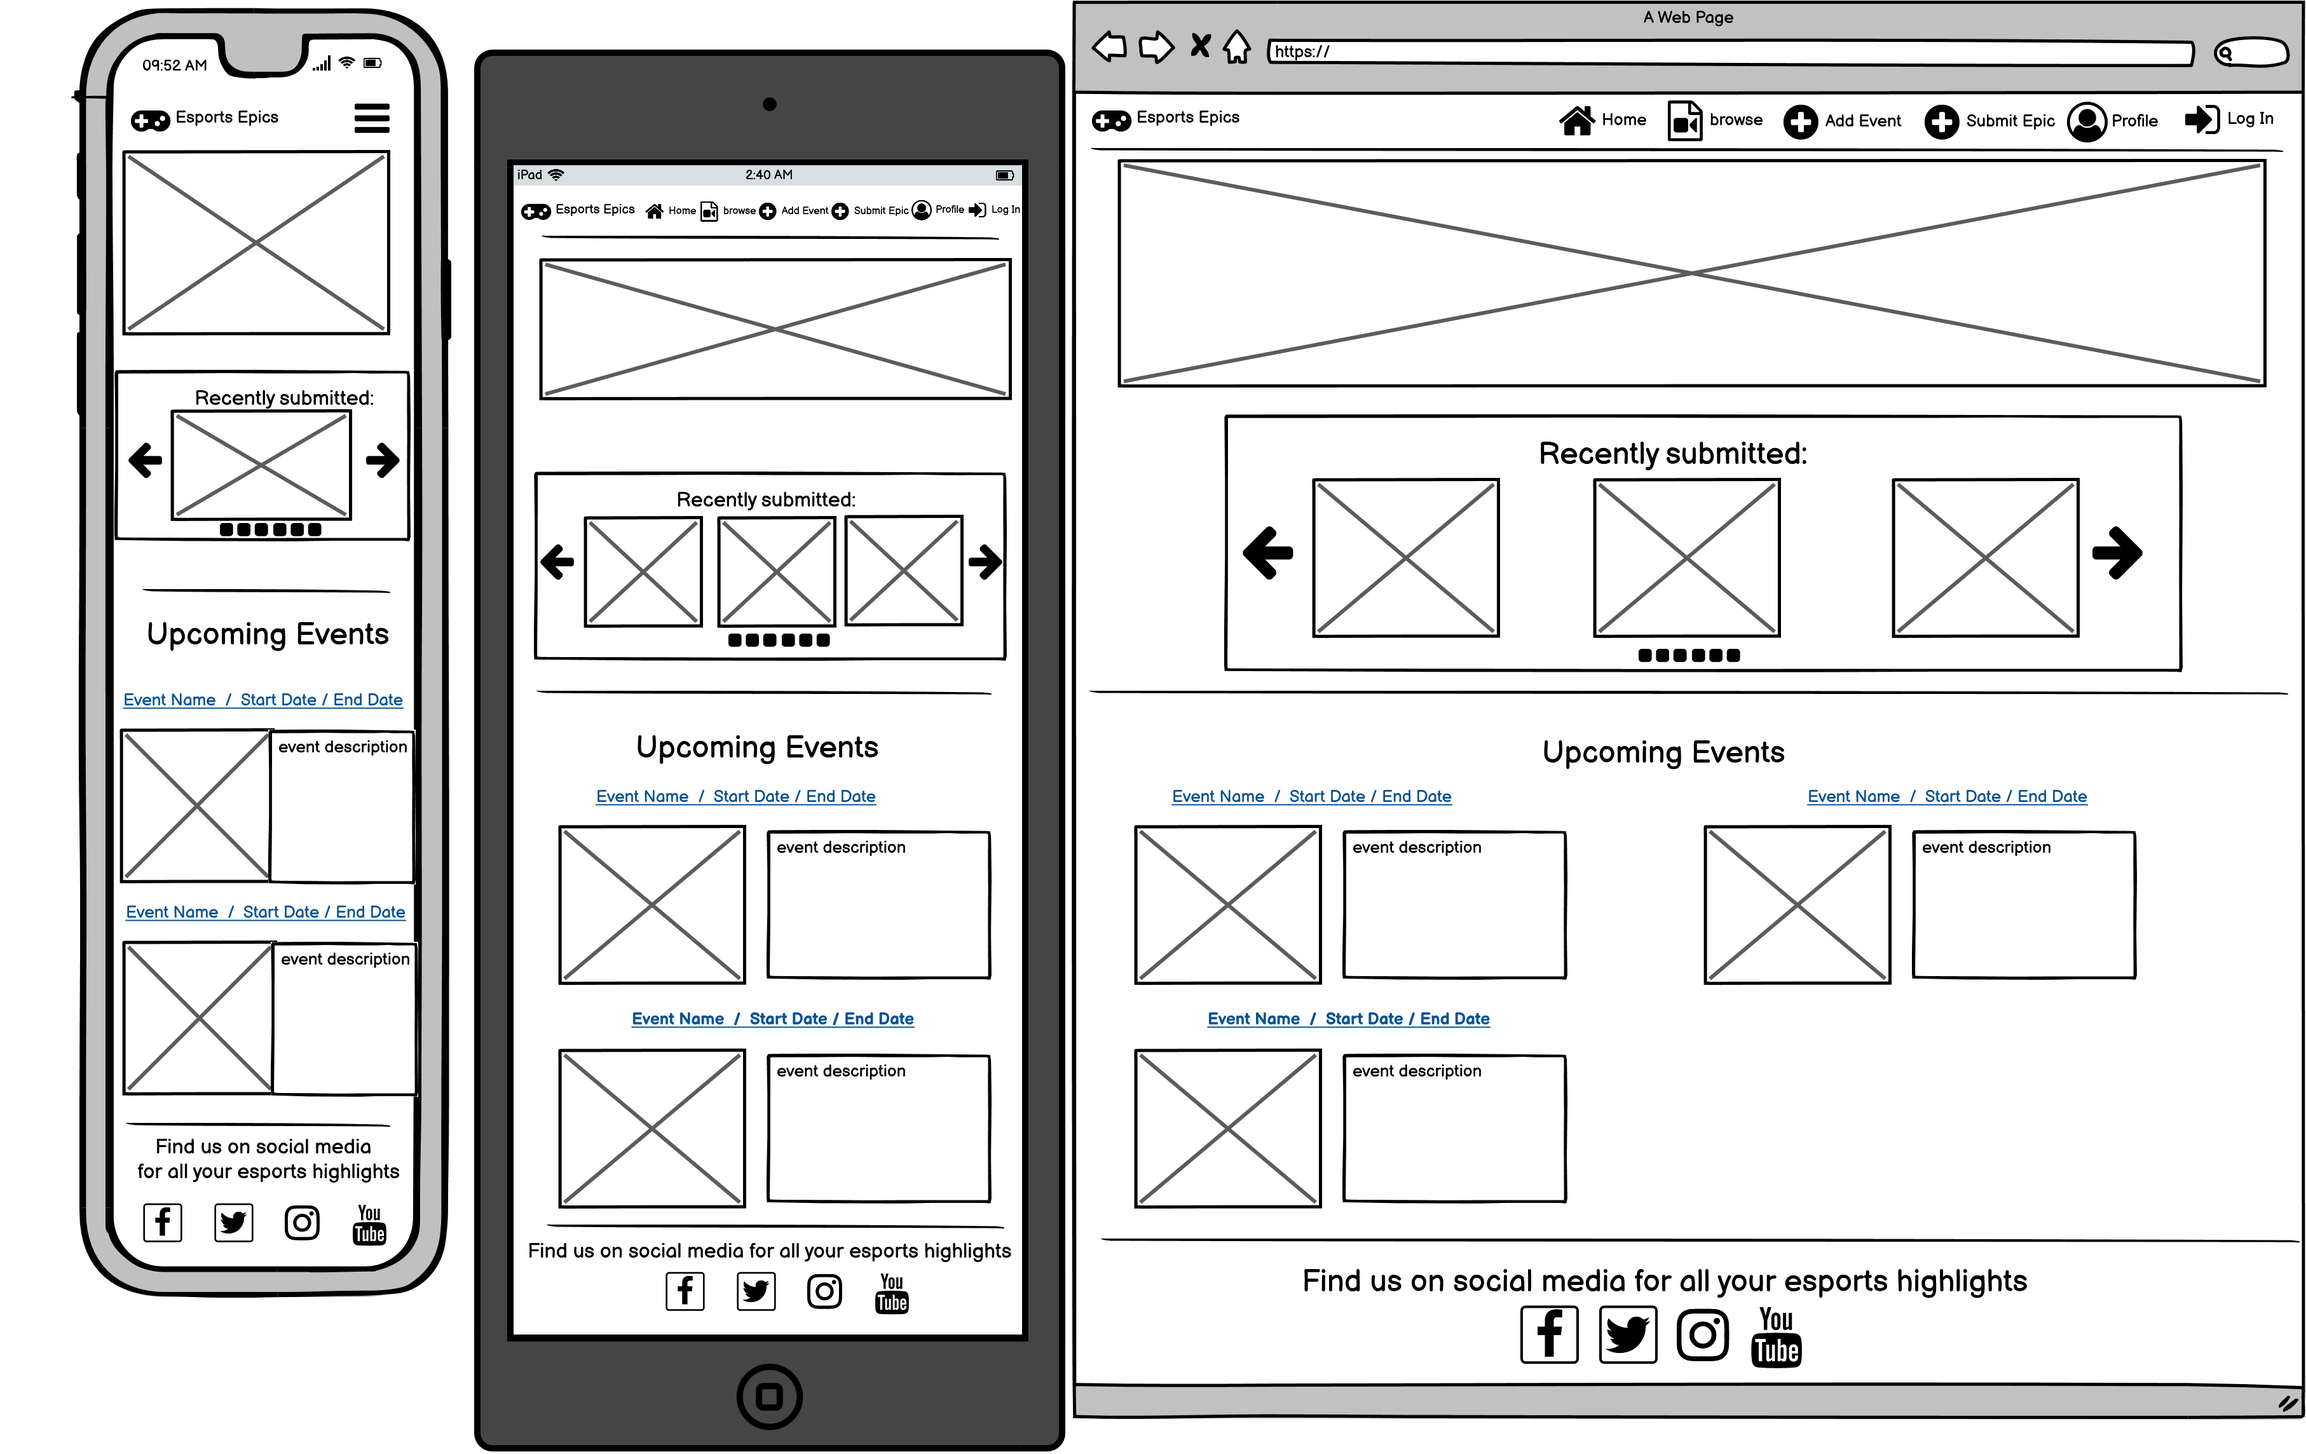
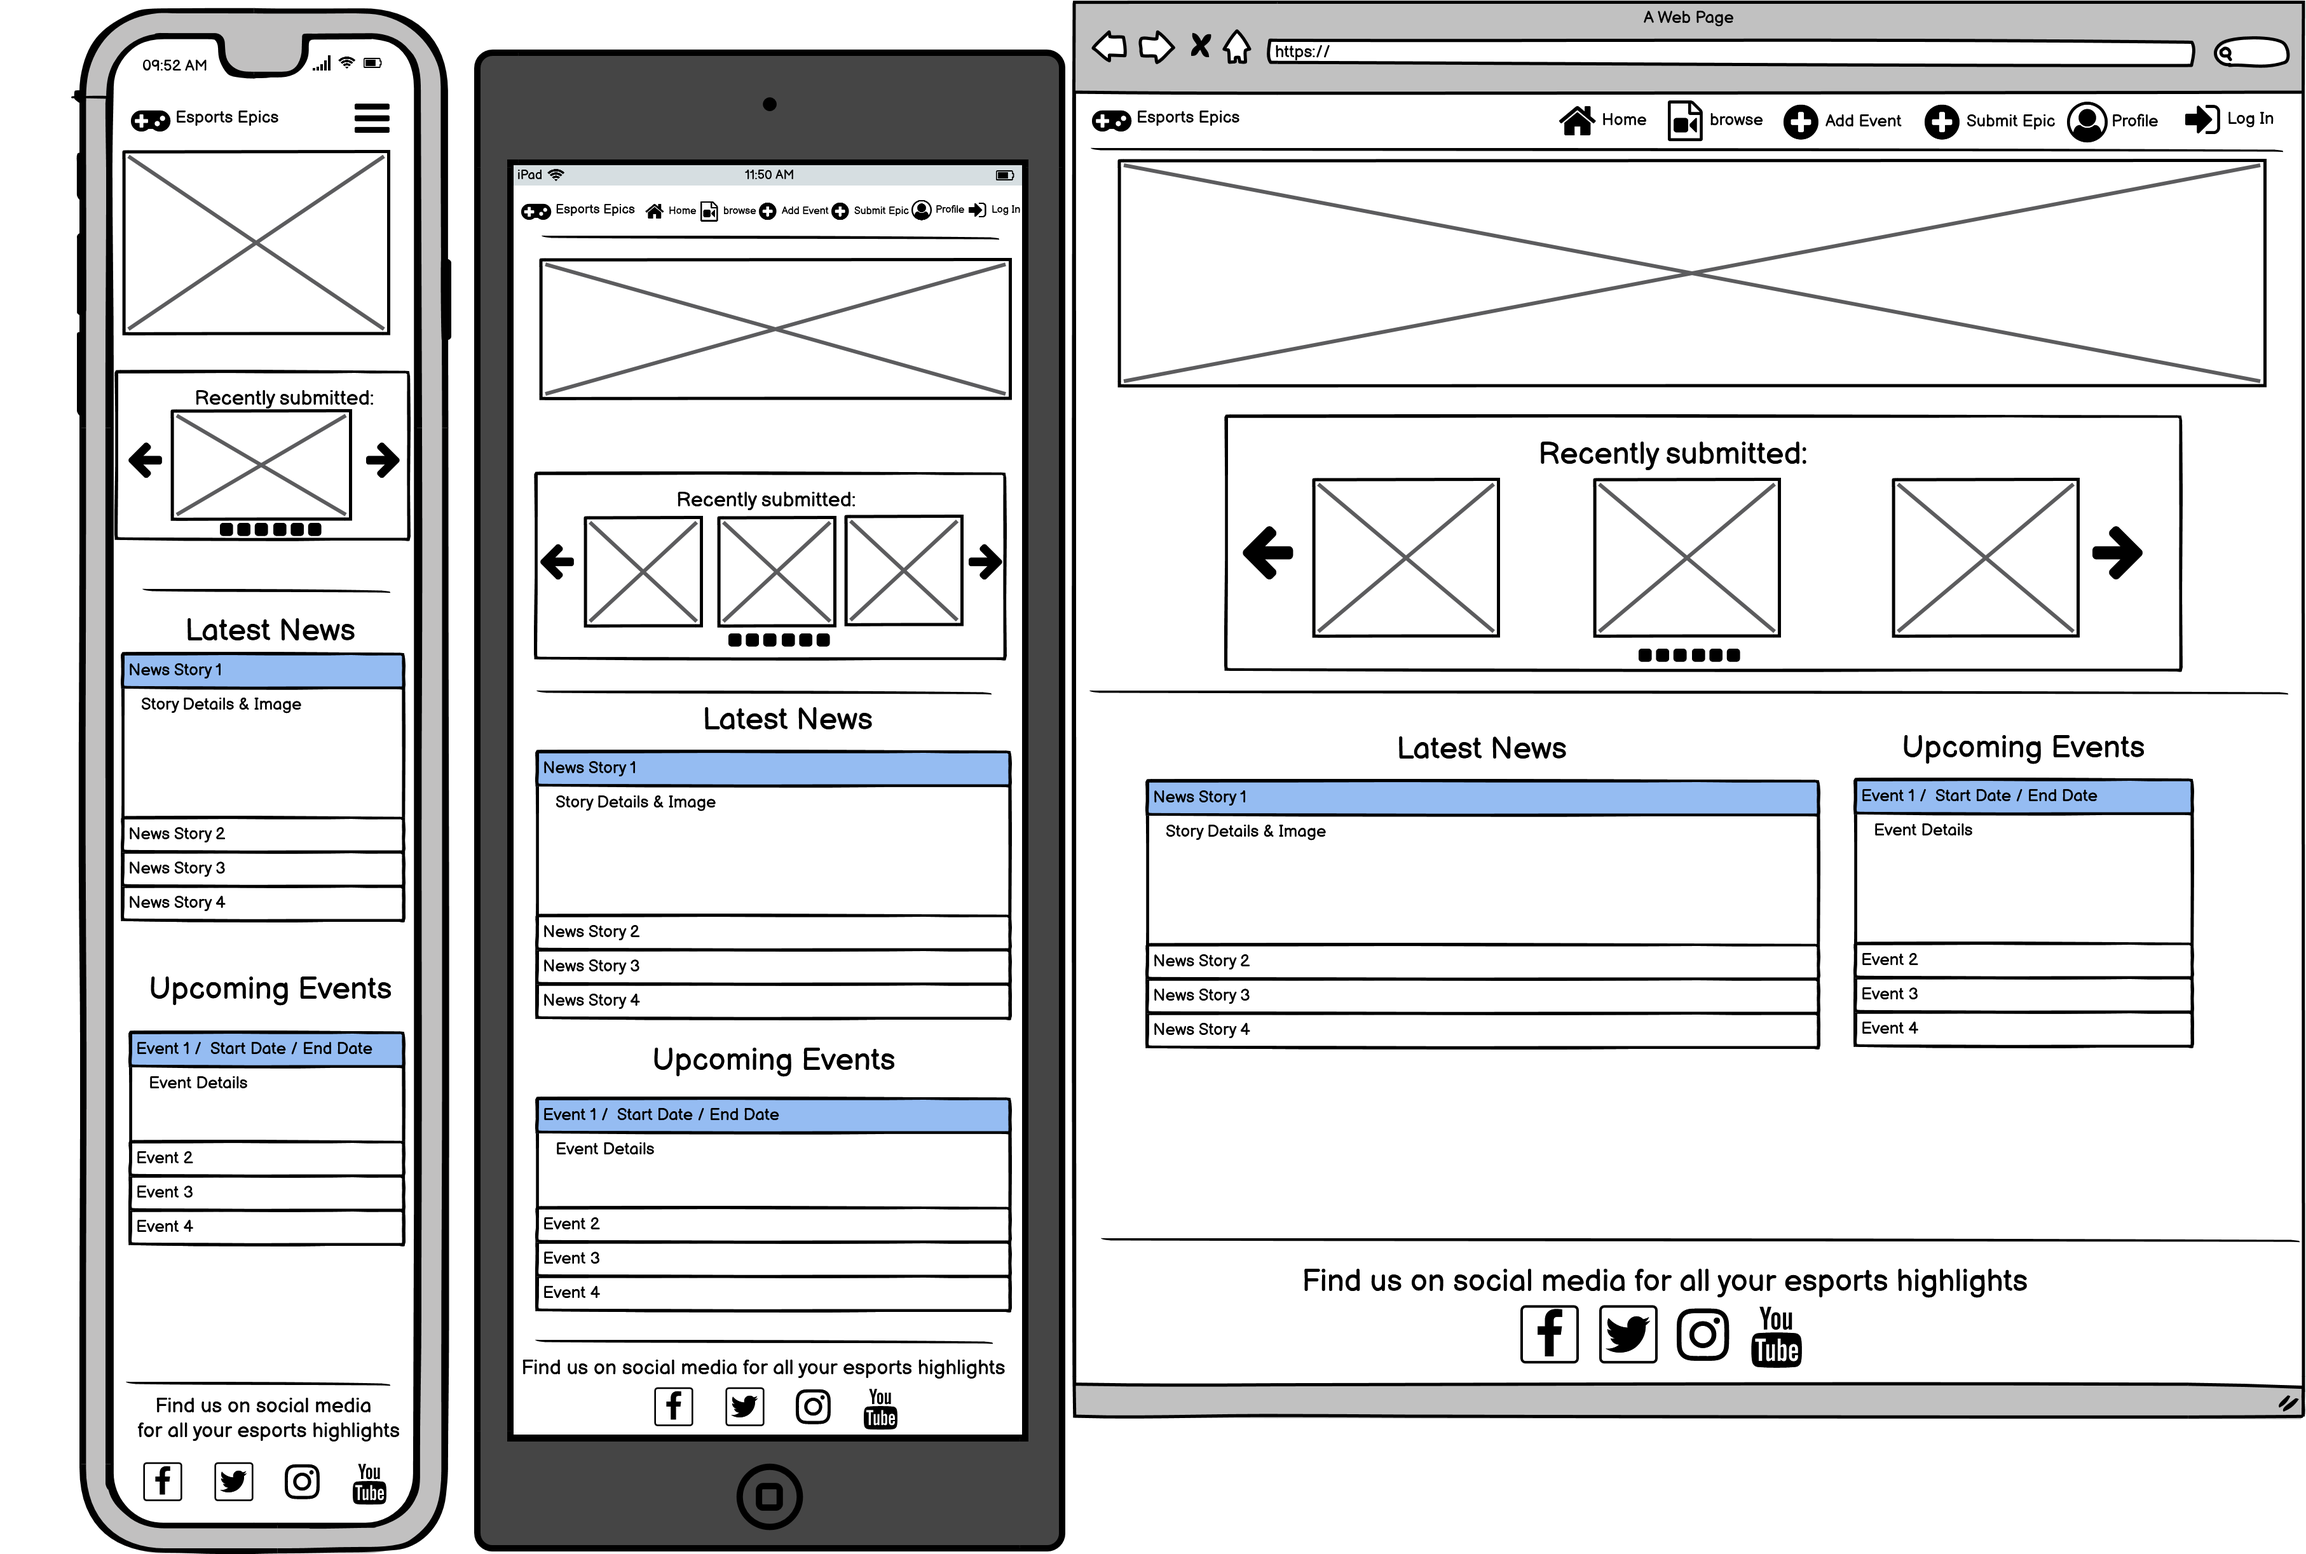
updated home page wireframe to include latest news section, updated the grid for news and events so they are separate rows for tablets and phones

diff --git a/templates/index.html b/templates/index.html
@@ -47,7 +47,7 @@
     <!-- Latest News & Events -->
     <div class="container">
         <div class="row">
-            <div class="col s12 m6 xl7">
+            <div class="col s12 l7">
                 <div class="card">
                     <h4 class="latest-news-header center-align">Latest News</h4>
                     <ul class="collapsible latest-news-list popout">
@@ -79,7 +79,7 @@
                     </ul>
                 </div>
             </div>
-            <div class="col s12 m6 xl5">
+            <div class="col s12 l5">
                 <div class="card">
                     <h4 class="current-events-header center-align">Current Events</h4>
                     <ul class="collapsible current-events-list">
